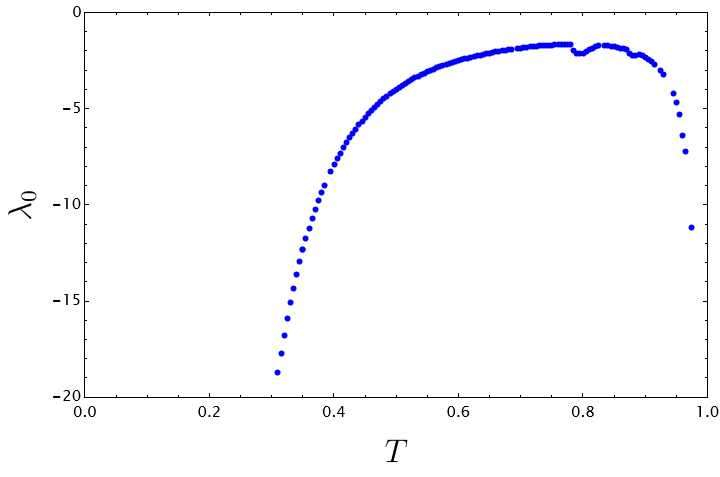
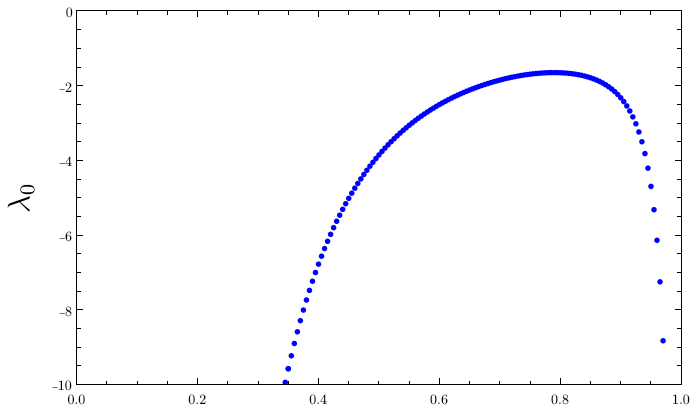
kruskal update1

diff --git a/index.html b/index.html
@@ -4,11 +4,11 @@
     <script type="text/processing" data-processing-target="mycanvas">
 /*--------------------------------------------------------------------*/
 /*vvvvvvvvvvvvvvvvvvvvvvvvvvvvvvvvvvvvvvvvvvvvvvvvvvvvvvvvvvvvvvvvvvvv*/
-let lambda0 = {"310":"-18.7182","315":"-17.7114","320":"-16.7772","325":"-15.9082","330":"-15.0955","335":"-14.3359","340":"-13.6255","345":"-12.9632","350":"-12.3444","355":"-11.7652","360":"-11.2225","365":"-10.7136","370":"-10.2361","375":"-9.78768","350":"-12.3444","380":"-9.36647","385":"-8.97028","395":"-8.24616","400":"-7.91512","405":"-7.60284","410":"-7.30804","415":"-7.0296","420":"-6.76638","425":"-6.51739","430":"-6.2817","435":"-6.05852","440":"-5.84695","445":"-5.64633","450":"-5.45591","455":"-5.27517","460":"-5.10337","465":"-4.94008","470":"-4.78479","475":"-4.63696","480":"-4.49622","485":"-4.36209","490":"-4.23426","495":"-4.11234","500":"-3.996","505":"-3.88493","510":"-3.77883","515":"-3.67745","520":"-3.58056","525":"-3.48785","530":"-3.39916","535":"-3.31426","540":"-3.23297","545":"-3.15508","550":"-3.08045","555":"-3.00889","560":"-2.94026","565":"-2.87444","570":"-2.81407","575":"-2.75798","580":"-2.70382","585":"-2.65154","590":"-2.60105","595":"-2.55229","600":"-2.5052","605":"-2.45973","610":"-2.41582","615":"-2.37343","620":"-2.33251","625":"-2.293","630":"-2.25487","635":"-2.21809","640":"-2.1826","645":"-2.14839","650":"-2.11543","655":"-2.08369","660":"-2.05314","665":"-2.02375","670":"-1.99551","675":"-1.96852","680":"-1.94105","685":"-1.91745","695":"-1.87085","700":"-1.84915","705":"-1.82852","710":"-1.80894","715":"-1.79043","720":"-1.77298","725":"-1.75661","730":"-1.74131","735":"-1.72709","740":"-1.71398","745":"-1.70199","750":"-1.69112","755":"-1.6814","760":"-1.67285","765":"-1.66551","770":"-1.6594","775":"-1.65464","780":"-1.68062","785":"-1.95546","790":"-2.11579","795":"-2.15722","800":"-2.11541","805":"-2.03122","810":"-1.93629","815":"-1.85004","820":"-1.78243","825":"-1.73736","835":"-1.72401","840":"-1.74064","845":"-1.76158","850":"-1.78611","855":"-1.81431","860":"-1.84652","865":"-1.88328","870":"-1.92689","875":"-2.11935","880":"-2.23654","885":"-2.21006","890":"-2.1815","895":"-2.23547","900":"-2.322","905":"-2.42334","910":"-2.54188","915":"-2.70414","925":"-3.0206","930":"-3.23888","945":"-4.20984","950":"-4.69531","955":"-5.3224","960":"-6.3868","965":"-7.25014","975":"-11.199"};	    
+let lambda0 = {"145":"-93.308","150":"-85.4097","155":"-78.4432","160":"-72.2662","165":"-66.7596","170":"-61.8245","175":"-57.3829","180":"-53.3722","185":"-49.7421","190":"-46.4421","195":"-43.4366","200":"-40.6911","205":"-38.1795","210":"-35.8761","215":"-33.758","220":"-31.8089","225":"-30.01","230":"-28.3475","235":"-26.8092","240":"-25.3824","245":"-24.0773","250":"-22.8802","255":"-21.7581","260":"-20.7059","265":"-19.7192","270":"-18.7933","275":"-17.9245","280":"-17.1086","285":"-16.3418","290":"-15.6208","295":"-14.9423","300":"-14.3033","305":"-13.7014","310":"-13.1336","315":"-12.5975","320":"-12.0916","325":"-11.613","330":"-11.1603","335":"-10.7319","340":"-10.3261","345":"-9.94113","350":"-9.57603","355":"-9.22949","360":"-8.9003","365":"-8.5873","370":"-8.28959","375":"-8.0062","350":"-9.57603","380":"-7.73627","385":"-7.47914","390":"-7.234","395":"-7.00007","400":"-6.77681","405":"-6.5636","410":"-6.35977","415":"-6.16497","420":"-5.97863","425":"-5.80022","430":"-5.62942","435":"-5.46591","440":"-5.30922","445":"-5.15899","450":"-5.01493","455":"-4.87667","460":"-4.74394","465":"-4.61653","470":"-4.49415","475":"-4.37656","480":"-4.26354","485":"-4.15485","490":"-4.0503","495":"-3.94972","500":"-3.85288","505":"-3.75967","510":"-3.6699","515":"-3.58334","520":"-3.5","525":"-3.4197","530":"-3.34231","535":"-3.26771","540":"-3.19578","545":"-3.12638","550":"-3.05943","555":"-2.99482","560":"-2.93246","565":"-2.87226","570":"-2.81413","575":"-2.75801","580":"-2.70382","585":"-2.65147","590":"-2.60097","595":"-2.55218","600":"-2.50508","605":"-2.4596","610":"-2.41568","615":"-2.37329","620":"-2.33236","625":"-2.29286","630":"-2.25474","635":"-2.21797","640":"-2.1825","645":"-2.14831","650":"-2.11536","655":"-2.08363","660":"-2.05308","665":"-2.0237","670":"-1.99546","675":"-1.96834","680":"-1.94234","685":"-1.91743","690":"-1.89361","695":"-1.87085","700":"-1.84915","705":"-1.82851","710":"-1.80894","715":"-1.79043","720":"-1.77299","725":"-1.75663","730":"-1.74136","735":"-1.7272","740":"-1.71415","745":"-1.70223","750":"-1.69147","755":"-1.68186","760":"-1.67344","765":"-1.66624","770":"-1.66028","775":"-1.65561","780":"-1.65226","785":"-1.65029","790":"-1.64974","795":"-1.65069","800":"-1.65318","805":"-1.65731","810":"-1.66317","815":"-1.67086","820":"-1.6805","825":"-1.69223","830":"-1.70622","835":"-1.72263","840":"-1.74168","845":"-1.76361","850":"-1.78871","855":"-1.81729","860":"-1.84974","865":"-1.88649","870":"-1.92808","875":"-1.97511","880":"-2.02831","885":"-2.08857","890":"-2.15693","895":"-2.23468","900":"-2.32338","905":"-2.42497","910":"-2.54186","915":"-2.6771","920":"-2.8346","925":"-3.01943","930":"-3.23828","935":"-3.50015","940":"-3.81738","945":"-4.20737","950":"-4.6954","955":"-5.31927","960":"-6.13829","965":"-7.2502","970":"-8.8272","975":"-11.1995","980":"-15.081","985":"-22.3063","990":"-39.1606","995":"-104.447"}
 
-let lambda1 = {"310":"-13.1326","315":"-12.597","320":"-12.091","325":"-11.6127","330":"-11.1601","335":"-10.7318","340":"-10.3259","345":"-9.94117","350":"-9.57612","355":"-9.22957","360":"-8.90035","365":"-8.58738","370":"-8.2897","375":"-8.00637","350":"-9.57612","380":"-7.73649","385":"-7.47928","395":"-7.00014","400":"-6.77688","405":"-6.56365","410":"-6.35989","415":"-6.16507","420":"-5.97873","425":"-5.80041","430":"-5.62969","435":"-5.46614","440":"-5.30939","445":"-5.15911","450":"-5.01499","455":"-4.87674","460":"-4.74406","465":"-4.6167","470":"-4.49431","475":"-4.37669","480":"-4.26364","485":"-4.15493","490":"-4.05038","495":"-3.94979","500":"-3.85297","505":"-3.75977","510":"-3.67","515":"-3.58354","520":"-3.50023","525":"-3.41994","530":"-3.34253","535":"-3.2679","540":"-3.19591","545":"-3.12648","550":"-3.05945","555":"-2.99478","560":"-2.93239","565":"-2.87218","570":"-2.81127","575":"-2.75064","580":"-2.69243","585":"-2.63652","590":"-2.58282","595":"-2.53124","600":"-2.48167","605":"-2.43403","610":"-2.38827","615":"-2.34427","620":"-2.30201","625":"-2.26139","630":"-2.22239","635":"-2.18492","640":"-2.14894","645":"-2.11443","650":"-2.0813","655":"-2.04954","660":"-2.01908","665":"-1.98979","670":"-1.9619","675":"-1.93834","680":"-1.90637","685":"-1.88489","695":"-1.83887","700":"-1.81758","705":"-1.79718","710":"-1.77777","715":"-1.75935","720":"-1.74187","725":"-1.72537","730":"-1.70981","735":"-1.6952","740":"-1.68154","745":"-1.66885","750":"-1.65712","755":"-1.64638","760":"-1.63668","765":"-1.62806","770":"-1.62068","775":"-1.61536","780":"-1.64914","785":"-1.64845","790":"-1.64769","795":"-1.64834","800":"-1.6505","805":"-1.65422","810":"-1.6596","815":"-1.66666","820":"-1.67536","825":"-1.68511","835":"-1.69375","840":"-1.69966","845":"-1.71236","850":"-1.73054","855":"-1.75354","860":"-1.78147","865":"-1.8161","870":"-1.87612","875":"-1.96857","880":"-2.02215","885":"-2.08129","890":"-2.14255","895":"-2.18806","900":"-2.25667","905":"-2.35141","910":"-2.48324","915":"-2.66425","925":"-2.96388","930":"-3.17435","945":"-4.15798","950":"-4.60205","955":"-5.27784","960":"-6.13658","965":"-7.12487","975":"-11.0974"};
+let lambda1 = {"145":"-65.1282","150":"-62.9094","155":"-60.6293","160":"-58.2133","165":"-55.7171","170":"-53.1883","175":"-50.6643","180":"-48.1766","185":"-45.747","190":"-43.3946","195":"-41.1322","200":"-38.9667","205":"-36.9052","210":"-34.9496","215":"-33.0998","220":"-31.3545","225":"-29.7114","230":"-28.1663","235":"-26.7155","240":"-25.3541","245":"-24.0581","250":"-22.8266","255":"-21.6796","260":"-20.6108","265":"-19.6126","270":"-18.6795","275":"-17.8065","280":"-16.9884","285":"-16.2211","290":"-15.5008","295":"-14.8231","300":"-14.1872","305":"-13.5859","310":"-13.0209","315":"-12.489","320":"-11.9833","325":"-11.5075","330":"-11.0588","335":"-10.6315","340":"-10.2273","345":"-9.84545","350":"-9.48269","355":"-9.13742","360":"-8.80956","365":"-8.49866","370":"-8.20229","375":"-7.92024","350":"-9.48269","380":"-7.65227","385":"-7.39635","390":"-7.15225","395":"-6.91987","400":"-6.69748","405":"-6.48497","410":"-6.28277","415":"-6.08881","420":"-5.90311","425":"-5.72594","430":"-5.55617","435":"-5.39313","440":"-5.23728","445":"-5.08792","450":"-4.94457","455":"-4.8071","460":"-4.67538","465":"-4.54863","470":"-4.427","475":"-4.31014","480":"-4.1977","485":"-4.08972","490":"-3.98593","495":"-3.88594","500":"-3.78992","505":"-3.69731","510":"-3.60818","515":"-3.52251","520":"-3.43978","525":"-3.36011","530":"-3.2834","535":"-3.20939","540":"-3.13801","545":"-3.06931","550":"-3.00294","555":"-2.93893","560":"-2.8772","565":"-2.81769","570":"-2.76029","575":"-2.70481","580":"-2.65122","585":"-2.59959","590":"-2.5497","595":"-2.50162","600":"-2.4552","605":"-2.41037","610":"-2.36713","615":"-2.32534","620":"-2.28507","625":"-2.24625","630":"-2.20875","635":"-2.17261","640":"-2.13778","645":"-2.10419","650":"-2.07188","655":"-2.04073","660":"-2.01078","665":"-1.98198","670":"-1.95428","675":"-1.92768","680":"-1.90214","685":"-1.87768","690":"-1.85428","695":"-1.83188","700":"-1.8105","705":"-1.79011","710":"-1.77071","715":"-1.7523","720":"-1.73484","725":"-1.71836","730":"-1.70283","735":"-1.68828","740":"-1.67467","745":"-1.66203","750":"-1.65036","755":"-1.63967","760":"-1.62998","765":"-1.62128","770":"-1.61361","775":"-1.607","780":"-1.60148","785":"-1.59707","790":"-1.59384","795":"-1.59183","800":"-1.59109","805":"-1.59169","810":"-1.59369","815":"-1.59719","820":"-1.60229","825":"-1.60908","830":"-1.61769","835":"-1.62828","840":"-1.641","845":"-1.65605","850":"-1.67363","855":"-1.69402","860":"-1.7175","865":"-1.74442","870":"-1.7752","875":"-1.8103","880":"-1.85031","885":"-1.89591","890":"-1.94792","895":"-2.00735","900":"-2.07542","905":"-2.15366","910":"-2.24394","915":"-2.34868","920":"-2.47091","925":"-2.61462","930":"-2.78506","935":"-2.98927","940":"-3.23693","945":"-3.54168","950":"-3.92335","955":"-4.41152","960":"-5.05269","965":"-5.9234","970":"-7.15857","975":"-9.01683","980":"-12.0577","985":"-17.7207","990":"-35.2483","995":"-100.095"}
 
-let lambda2 = {"310":"-13.0187","315":"-12.4853","320":"-11.9818","325":"-11.5059","330":"-11.0557","335":"-10.6296","340":"-10.2261","345":"-9.84339","350":"-9.48038","355":"-9.13577","360":"-8.80833","365":"-8.49712","370":"-8.20102","375":"-7.91922","350":"-9.48038","380":"-7.65081","385":"-7.39505","395":"-6.91849","400":"-6.6964","405":"-6.48427","410":"-6.28153","415":"-6.08776","420":"-5.90241","425":"-5.72507","430":"-5.55526","435":"-5.39263","440":"-5.2368","445":"-5.08742","450":"-4.94414","455":"-4.80671","460":"-4.6748","465":"-4.54817","470":"-4.42655","475":"-4.30969","480":"-4.19738","485":"-4.08939","490":"-3.98556","495":"-3.88564","500":"-3.78953","505":"-3.697","510":"-3.60792","515":"-3.52213","520":"-3.43951","525":"-3.35989","530":"-3.28315","535":"-3.20918","540":"-3.13786","545":"-3.06909","550":"-3.00276","555":"-2.93879","560":"-2.87707","565":"-2.81753","570":"-2.76006","575":"-2.7046","580":"-2.65107","585":"-2.5994","590":"-2.54953","595":"-2.50138","600":"-2.45489","605":"-2.41001","610":"-2.36668","615":"-2.32485","620":"-2.28444","625":"-2.24543","630":"-2.20776","635":"-2.17137","640":"-2.13624","645":"-2.10231","650":"-2.06954","655":"-2.03791","660":"-2.00739","665":"-1.97793","670":"-1.94957","675":"-1.92266","680":"-1.86094","685":"-1.87059","695":"-1.82285","700":"-1.80046","705":"-1.77895","710":"-1.75836","715":"-1.73867","720":"-1.71985","725":"-1.70191","730":"-1.68483","735":"-1.6686","740":"-1.65322","745":"-1.63869","750":"-1.62501","755":"-1.61218","760":"-1.60022","765":"-1.58914","770":"-1.57903","775":"-1.5703","780":"-1.59732","785":"-1.60083","790":"-1.59827","795":"-1.59638","800":"-1.59555","805":"-1.59584","810":"-1.59723","815":"-1.59957","820":"-1.60248","825":"-1.60539","835":"-1.61043","840":"-1.61494","845":"-1.62281","850":"-1.63454","855":"-1.65032","860":"-1.67072","865":"-1.69859","870":"-1.76463","875":"-1.86706","880":"-1.91823","885":"-1.96686","890":"-2.01283","895":"-2.0585","900":"-2.1192","905":"-2.20489","910":"-2.33889","915":"-2.51787","925":"-2.80905","930":"-3.01461","945":"-3.98778","950":"-4.43332","955":"-5.09747","960":"-5.95584","965":"-6.94127","975":"-10.9203"};
+let lambda2 = {"145":"-64.987","150":"-62.8045","155":"-60.3758","160":"-57.8899","165":"-55.3744","170":"-52.8828","175":"-50.3063","180":"-47.8288","185":"-45.3048","190":"-42.9519","195":"-40.7281","200":"-38.5655","205":"-36.5378","210":"-34.5764","215":"-32.7752","220":"-31.0361","225":"-29.387","230":"-27.877","235":"-26.3903","240":"-25.0802","245":"-23.7975","250":"-22.6281","255":"-21.4963","260":"-20.4561","265":"-19.4818","270":"-18.5681","275":"-17.7101","280":"-16.9072","285":"-16.133","290":"-15.4253","295":"-14.754","300":"-14.1201","305":"-13.5266","310":"-12.9627","315":"-12.4098","320":"-11.9314","325":"-11.4608","330":"-10.9957","335":"-10.5768","340":"-10.1802","345":"-9.78777","350":"-9.42669","355":"-9.08123","360":"-8.75808","365":"-8.44265","370":"-8.15428","375":"-7.87217","350":"-9.42669","380":"-7.5987","385":"-7.34314","390":"-7.10028","395":"-6.86618","400":"-6.64821","405":"-6.43752","410":"-6.23169","415":"-6.03711","420":"-5.85463","425":"-5.67463","430":"-5.50595","435":"-5.34582","440":"-5.18965","445":"-5.03925","450":"-4.8956","455":"-4.76034","460":"-4.62698","465":"-4.50107","470":"-4.37999","475":"-4.26241","480":"-4.15115","485":"-4.04241","490":"-3.939","495":"-3.83966","500":"-3.74288","505":"-3.65224","510":"-3.56292","515":"-3.47659","520":"-3.39461","525":"-3.31598","530":"-3.23915","535":"-3.16477","540":"-3.09406","545":"-3.02648","550":"-2.96039","555":"-2.89659","560":"-2.83521","565":"-2.77626","570":"-2.7187","575":"-2.66397","580":"-2.61109","585":"-2.55965","590":"-2.51025","595":"-2.46254","600":"-2.41682","605":"-2.37243","610":"-2.32926","615":"-2.28841","620":"-2.24818","625":"-2.21017","630":"-2.17324","635":"-2.13732","640":"-2.10259","645":"-2.06974","650":"-2.03758","655":"-2.00692","660":"-1.97717","665":"-1.94876","670":"-1.9213","675":"-1.89485","680":"-1.86953","685":"-1.84506","690":"-1.82162","695":"-1.79907","700":"-1.77742","705":"-1.75672","710":"-1.73687","715":"-1.71782","720":"-1.69961","725":"-1.68223","730":"-1.66565","735":"-1.64988","740":"-1.63485","745":"-1.62061","750":"-1.60715","755":"-1.59447","760":"-1.58256","765":"-1.57143","770":"-1.56107","775":"-1.55152","780":"-1.54278","785":"-1.53485","790":"-1.52779","795":"-1.52158","800":"-1.51627","805":"-1.51189","810":"-1.50846","815":"-1.50603","820":"-1.50464","825":"-1.50435","830":"-1.50521","835":"-1.50729","840":"-1.51066","845":"-1.51541","850":"-1.52163","855":"-1.52945","860":"-1.53898","865":"-1.55037","870":"-1.5638","875":"-1.57946","880":"-1.59759","885":"-1.61846","890":"-1.64239","895":"-1.66977","900":"-1.70106","905":"-1.73683","910":"-1.77772","915":"-1.82461","920":"-1.87851","925":"-1.94076","930":"-2.01304","935":"-2.09755","940":"-2.19721","945":"-2.31598","950":"-2.45941","955":"-2.63541","960":"-2.85585","965":"-3.13926","970":"-3.51638","975":"-4.04219","980":"-4.8261","985":"-6.12225","990":"-24.0454","995":"-89.1664"}
 
 let lambda3 = {"310":"0.286284","315":"0.286272","320":"0.286247","325":"0.286211","330":"0.286172","335":"0.286138","340":"0.286111","345":"0.286087","350":"0.286061","355":"0.286033","360":"0.286004","365":"0.285974","370":"0.285948","375":"0.285922","350":"0.286061","380":"0.285894","385":"0.285864","395":"0.285802","400":"0.285771","405":"0.285738","410":"0.285704","415":"0.28567","420":"0.285634","425":"0.285598","430":"0.285563","435":"0.285527","440":"0.285491","445":"0.285457","450":"0.285424","455":"0.285394","460":"0.285367","465":"0.285344","470":"0.285325","475":"0.285313","480":"0.285307","485":"0.285313","490":"0.285329","495":"0.285356","500":"0.2854","505":"0.285456","510":"0.285535","515":"0.285632","520":"0.285753","525":"0.2859","530":"0.286075","535":"0.286279","540":"0.286518","545":"0.286792","550":"0.287104","555":"0.287458","560":"0.287853","565":"0.288293","570":"0.28878","575":"0.289316","580":"0.2899","585":"0.290536","590":"0.291223","595":"0.291958","600":"0.292747","605":"0.293586","610":"0.294471","615":"0.295403","620":"0.296375","625":"0.297387","630":"0.298429","635":"0.299498","640":"0.300582","645":"0.301673","650":"0.302756","655":"0.303816","660":"0.304832","665":"0.305781","670":"0.306621","675":"0.307142","680":"0.309946","685":"0.308063","695":"0.307345","700":"0.306056","705":"0.303875","710":"0.300425","715":"0.295179","720":"0.287347","725":"0.275682","730":"0.258255","735":"0.232021","740":"0.192241","745":"0.13174","750":"0.0403514","755":"-0.0954527","760":"-0.291461","765":"-0.560785","770":"-0.903067","775":"-1.2889","780":"-1.55694","785":"-1.55218","790":"-1.54581","795":"-1.54019","800":"-1.53547","805":"-1.53172","810":"-1.52893","815":"-1.52712","820":"-1.52626","825":"-1.52633","835":"-1.52959","840":"-1.53324","845":"-1.53864","850":"-1.546","855":"-1.55552","860":"-1.56755","865":"-1.58322","870":"-1.62611","875":"-1.72057","880":"-1.7608","885":"-1.79727","890":"-1.83306","895":"-1.87168","900":"-1.921","905":"-1.99017","910":"-2.11946","915":"-2.30282","925":"-2.56502","930":"-2.7587","945":"-3.71278","950":"-4.16254","955":"-4.81113","960":"-5.67243","965":"-6.64779","975":"-10.6186"};
 
